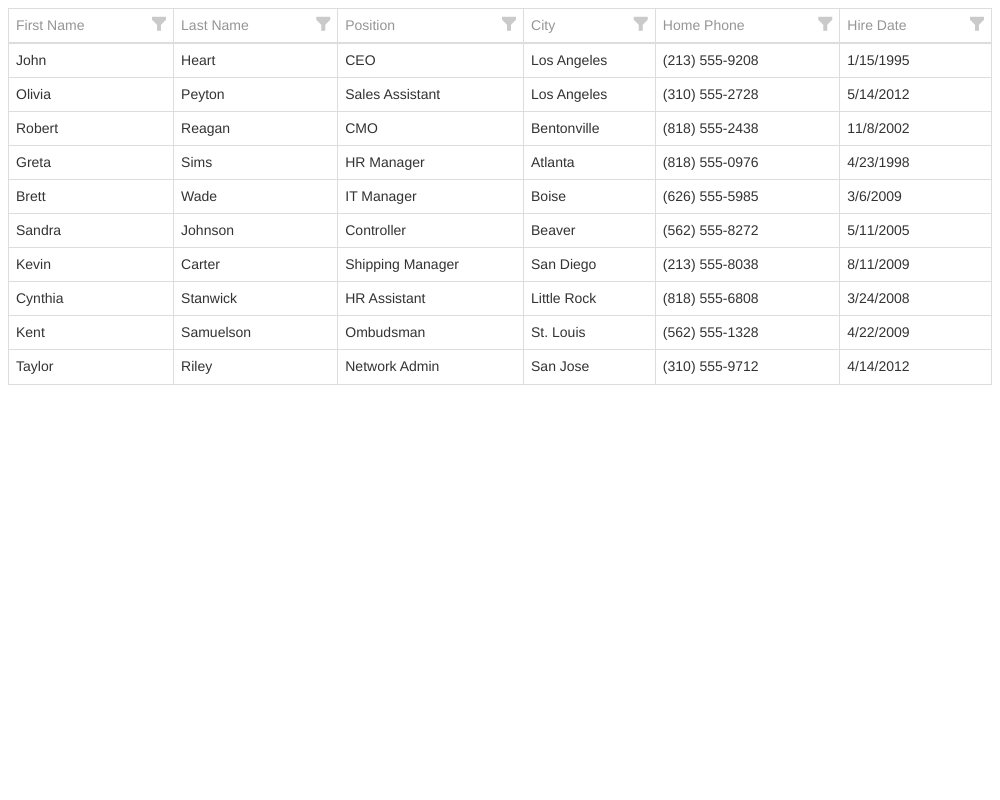
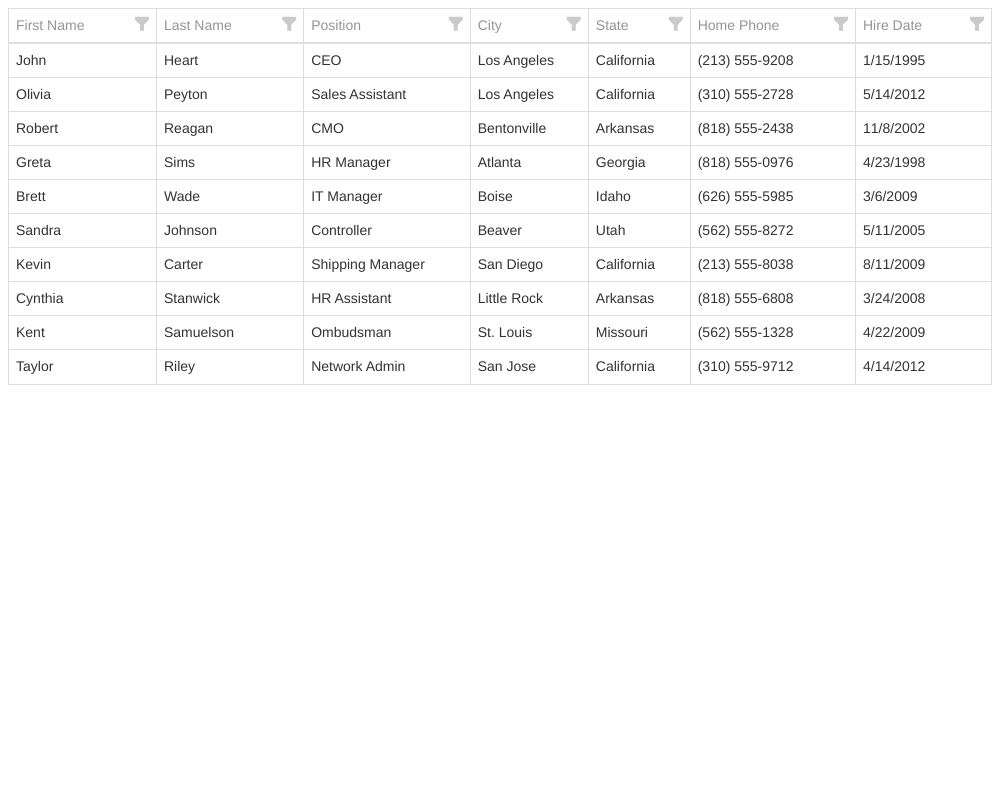
DataGrid/TreeList - Update the "Using Header Filter" demo (#2599)
* DataGrid - update the 'Using Header Filter' demo

* TreeList - update the 'Using Header Filter' demo

* Update Etalons

---------

diff --git a/JSDemos/Demos/TreeList/UsingHeaderFilter/React/App.js b/JSDemos/Demos/TreeList/UsingHeaderFilter/React/App.js
@@ -40,6 +40,7 @@ class App extends React.Component {
               editorOptions={searchEditorOptions} />
           </HeaderFilter>
         </Column>
+        <Column dataField="State" />
         <Column dataField="Mobile_Phone" />
         <Column dataField="Hire_Date" dataType="date" />
       </TreeList>

diff --git a/JSDemos/Demos/DataGrid/UsingHeaderFilter/React/App.js b/JSDemos/Demos/DataGrid/UsingHeaderFilter/React/App.js
@@ -35,6 +35,7 @@ class App extends React.Component {
               editorOptions={searchEditorOptions} />
           </HeaderFilter>
         </Column>
+        <Column dataField="State" />
         <Column dataField="HomePhone" />
         <Column dataField="HireDate" dataType="date" />
       </DataGrid>

diff --git a/JSDemos/Demos/TreeList/UsingHeaderFilter/Angular/app/app.component.html b/JSDemos/Demos/TreeList/UsingHeaderFilter/Angular/app/app.component.html
@@ -25,6 +25,7 @@
       ></dxo-search>
     </dxo-header-filter>
   </dxi-column>
+  <dxi-column dataField="State"></dxi-column>
   <dxi-column dataField="Mobile_Phone"></dxi-column>
   <dxi-column dataField="Hire_Date" dataType="date"></dxi-column>
 </dx-tree-list>

diff --git a/JSDemos/Demos/DataGrid/UsingHeaderFilter/Angular/app/app.component.html b/JSDemos/Demos/DataGrid/UsingHeaderFilter/Angular/app/app.component.html
@@ -24,6 +24,7 @@
       ></dxo-search>
     </dxo-header-filter>
   </dxi-column>
+  <dxi-column dataField="State"></dxi-column>
   <dxi-column dataField="HomePhone"></dxi-column>
   <dxi-column dataField="HireDate" dataType="date"></dxi-column>
 </dx-data-grid>

diff --git a/JSDemos/Demos/TreeList/UsingHeaderFilter/jQuery/index.js b/JSDemos/Demos/TreeList/UsingHeaderFilter/jQuery/index.js
@@ -31,7 +31,7 @@ $(() => {
             searchExpr: ['City', 'State'],
           },
         },
-      }, 'Mobile_Phone', {
+      }, 'State', 'Mobile_Phone', {
         dataField: 'Hire_Date',
         dataType: 'date',
       },

diff --git a/JSDemos/Demos/DataGrid/UsingHeaderFilter/jQuery/index.js b/JSDemos/Demos/DataGrid/UsingHeaderFilter/jQuery/index.js
@@ -24,7 +24,7 @@ $(() => {
           searchExpr: ['City', 'State'],
         },
       },
-    }, 'HomePhone', {
+    }, 'State', 'HomePhone', {
       dataField: 'HireDate',
       dataType: 'date',
     }],

diff --git a/JSDemos/Demos/TreeList/UsingHeaderFilter/Vue/App.vue b/JSDemos/Demos/TreeList/UsingHeaderFilter/Vue/App.vue
@@ -43,6 +43,9 @@
         </DxHeaderFilter>
       </DxColumn>
       <DxColumn
+        data-field="State"
+      />
+      <DxColumn
         data-field="Mobile_Phone"
       />
       <DxColumn

diff --git a/JSDemos/Demos/DataGrid/UsingHeaderFilter/Vue/App.vue b/JSDemos/Demos/DataGrid/UsingHeaderFilter/Vue/App.vue
@@ -41,6 +41,9 @@
         </DxHeaderFilter>
       </DxColumn>
       <DxColumn
+        data-field="State"
+      />
+      <DxColumn
         data-field="HomePhone"
       />
       <DxColumn
